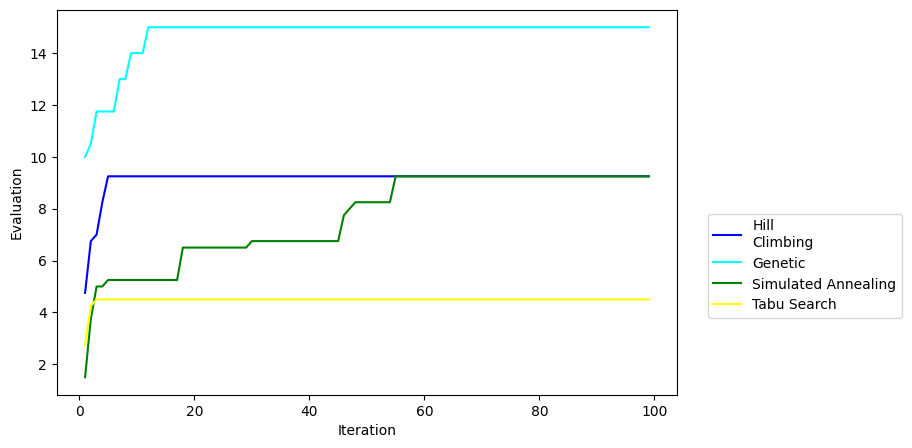
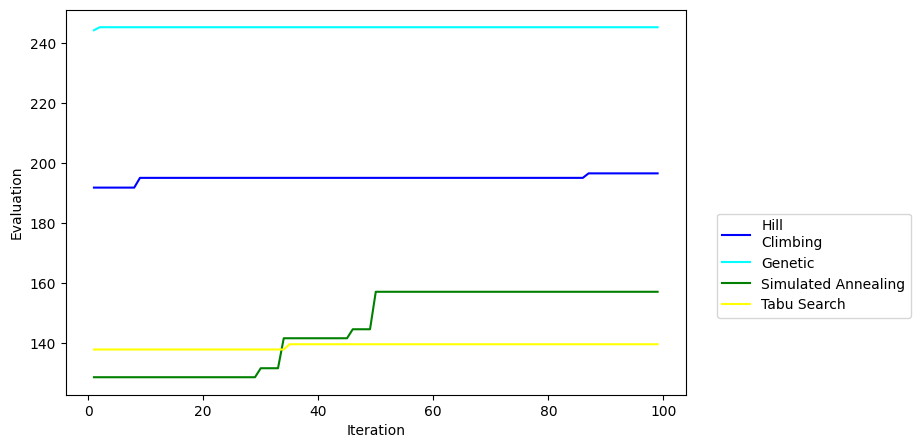
Reduced genetic iterations in all

diff --git a/graphs.py b/graphs.py
@@ -4,7 +4,7 @@ import string
 from matplotlib import pyplot
 from src.algorithms.simulated_annealing import linear_schedule, non_linear_schedule, simulated_annealing
 from src.algorithms.tabu import tabu_search
-from src.algorithms.hill_climbing import hill_climbing_basic
+from src.algorithms.hill_climbing import hill_climbing_basic, hill_climbing_basic_random
 from src.solution.evaluation import evaluate_solution
 from src.algorithms.genetic import genetic
 from src.neighbourhood.neighbourhood import Neighbourhood
@@ -45,7 +45,7 @@ def timed_func(args: Args):
         if(args.func == 'genetic'):
             temp, y_axis_temp = genetic(args.data_center, args.initial_solution, args.neighbour_modes, args.iterations, args.population_size, args.mutation_chance, args.replaced_each_generation)
         elif(args.func == 'hillclimb'):
-            temp, y_axis_temp = hill_climbing_basic(args.data_center, args.iterations, args.initial_solution)
+            temp, y_axis_temp = hill_climbing_basic_random(args.data_center, args.iterations, args.initial_solution)
         elif(args.func == 'tabu'):
             temp, y_axis_temp = tabu_search(args.data_center, args.iterations, args.neighbour_modes, args.max_tenure)
         elif(args.func == 'annealing'):
@@ -167,21 +167,21 @@ def plot_all(data_center, iterations, initial_solution, neighbour_modes):
     q = Queue()
     threads = []
     values = [[0,0] for x in range(4)]
+    population_size = 50
 
-    args = Args(data_center, iterations, initial_solution,q,0,80,1,1, 'hillclimb', neighbour_modes, 100, 'linear', 10)
-
+    args = Args(data_center, iterations, initial_solution,q,0,population_size,1,1, 'hillclimb', neighbour_modes, 100, 'linear', 10)
 
     args.func,args.i = 'hillclimb', 0
     process = worker(target=timed_func, args=(args,))
     process.start()
     threads.append(process)
     
-    args.func,args.i = 'genetic', 1
+    args.func,args.i, args.iterations = 'genetic', 1, iterations//population_size + 1
     process = worker(target=timed_func, args=(args,))
     process.start()
     threads.append(process)
 
-    args.func, args.i, args.init_temp, args.cool_schedule = 'annealing', 2, 100, 'linear'
+    args.func, args.i, args.init_temp, args.cool_schedule, args.iterations = 'annealing', 2, 100, 'linear', iterations
     process = worker(target=timed_func, args=(args,))
     process.start()
     threads.append(process)

diff --git a/main.py b/main.py
@@ -76,7 +76,6 @@ if __name__ == '__main__':
         sol, _ = tabu_search(data_center, iterations, neighbour_modes, max_tenure)
     elif algorithm == 'all':
         plot_all(data_center,iterations,initial_solution,neighbour_modes)
-        plot_genetic(data_center,iterations,neighbour_modes)
         exit()
     elif algorithm == 'plotgenetic':
         plot_genetic(data_center,iterations,neighbour_modes)

diff --git a/src/algorithms/genetic.py b/src/algorithms/genetic.py
@@ -18,6 +18,7 @@ def genetic(config: DataCenter, solution: Solution, neighbour_modes,generations,
 
     bestSolution = population[0]
 
+
     # Generate generations
     for gen in range(generations -1):
         population = get_new_population(population, config, mutation_chance, neighbour_modes, replaced_each_generation)
